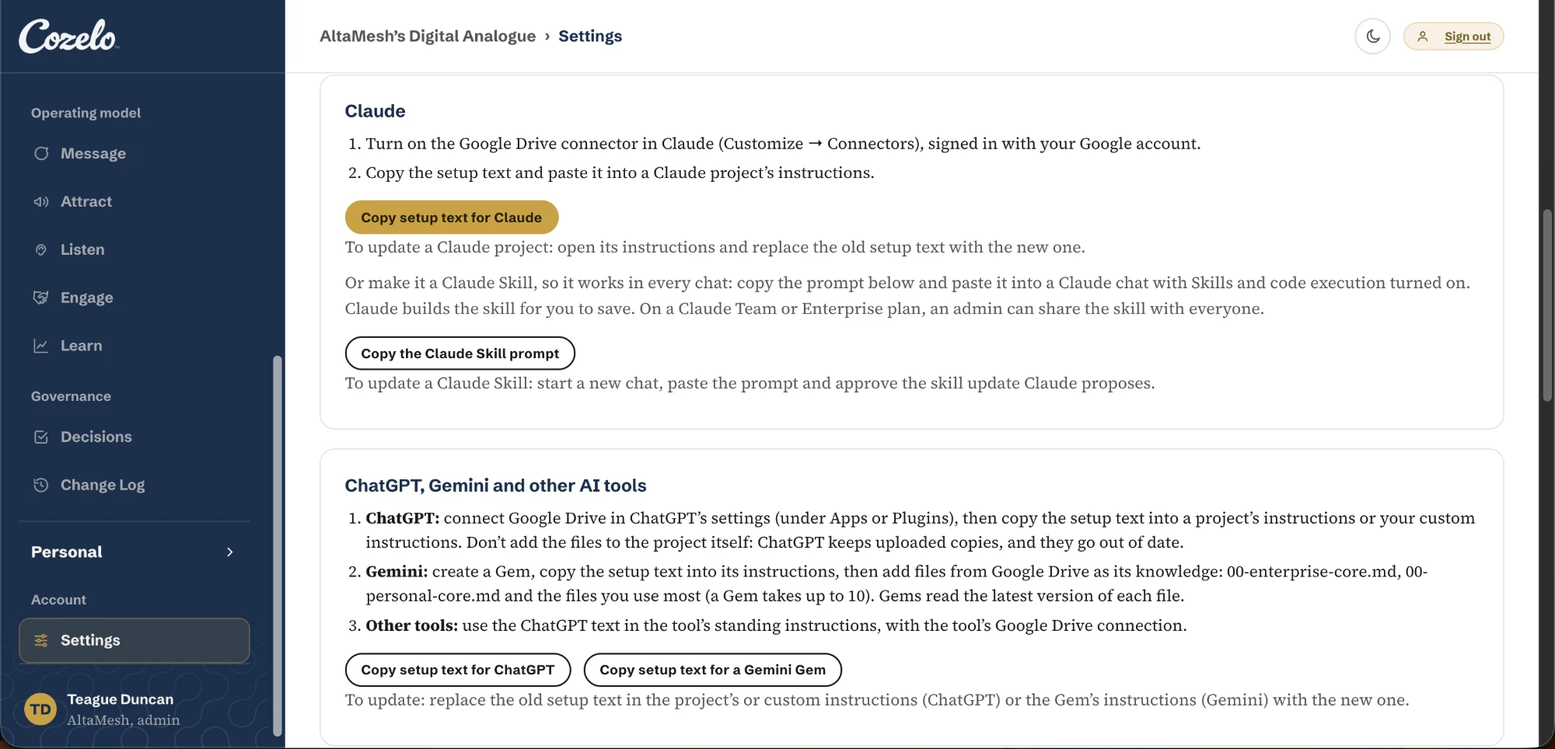
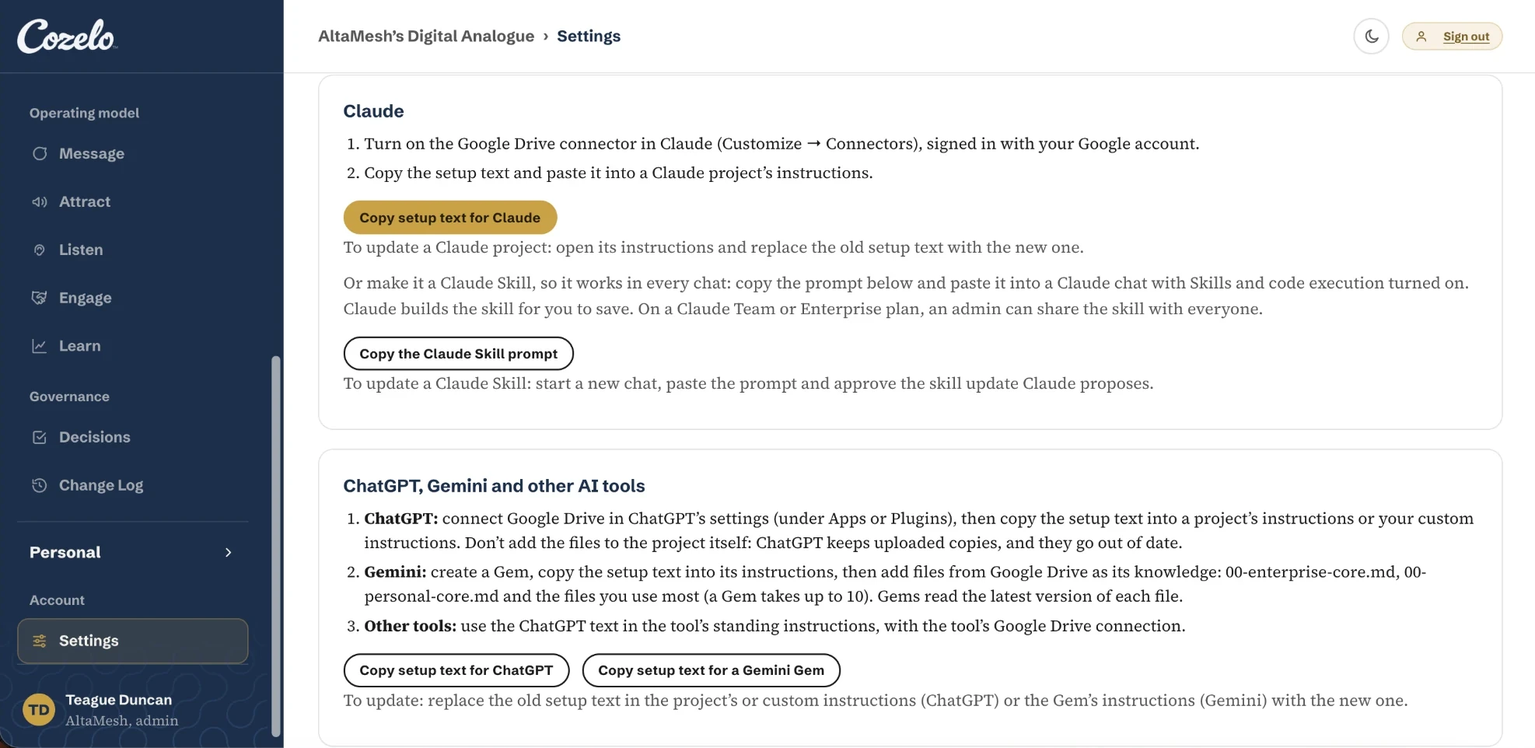
Digital Analogue: larger screenshots, brain motif, nav order
- Screenshots cropped of the app window's dark right and bottom edges (now 1974x962) and
  shown at the full content width, heading and copy above each; each links to its full-size file.
- The Orchestrator Instructions field draws a gold brain seen from the side.
- Digital Analogue now follows AI readiness in the rail, mobile menu and footer on every page.

diff --git a/digital-analogue/index.html b/digital-analogue/index.html
@@ -50,23 +50,29 @@
 .stack{display:flex; flex-direction:column; gap:.85rem; min-width:0}
 .txt{margin:0; font-family:var(--serif); font-size:1.05rem; line-height:1.55; color:var(--on-light-soft)}
 .band--dark .txt{color:var(--on-dark-soft)}
-.cards h3,.sec-pts h3,.steps h3{font-size:1.25rem; line-height:1.25}
+.feats h3,.sec-pts h3,.steps h3{font-size:1.25rem; line-height:1.25}
 
-/* App screenshots: full app windows at their own shape, trimmed only of the window's dark right edge. */
-.shot{display:block; width:100%; height:auto; aspect-ratio:1975/964; object-fit:cover; object-position:left top;
-  border:1px solid var(--rule-light); border-radius:var(--btn-radius); background:var(--white)}
+/* App screenshots: full app windows, shown at the full content width so the screen is readable.
+   Each links to its full-size file for a closer look on small screens. */
+.shot{display:block; width:100%; height:auto; border:1px solid var(--rule-light); border-radius:var(--btn-radius); background:var(--white)}
+.shot-link{display:block; border-radius:var(--btn-radius); cursor:zoom-in}
+.shot-link:focus-visible{outline:2px solid var(--navy); outline-offset:3px}
+/* A feature with a screenshot: heading and copy side by side, then the screenshot across the full width. */
+.feat{display:flex; flex-direction:column; gap:clamp(1.25rem,2.5vw,1.75rem)}
+.feat__head{display:grid; grid-template-columns:minmax(0,5fr) minmax(0,7fr); gap:.85rem clamp(2rem,5vw,4.5rem); align-items:baseline}
+.feat__head .txt{max-width:40rem}
 
-/* What's in it: three image-and-copy splits, alternating sides */
+/* What's in it: the context base and the app as screenshot features, the Orchestrator Instructions as a split */
 .parts3{display:flex; flex-direction:column; gap:clamp(2.5rem,5vw,4rem); margin-top:clamp(2.5rem,5vw,3.5rem)}
-.split-l{display:grid; grid-template-columns:minmax(0,5fr) minmax(0,7fr); gap:clamp(2rem,5vw,4.5rem); align-items:center}
 .split-r{display:grid; grid-template-columns:minmax(0,7fr) minmax(0,5fr); gap:clamp(2rem,5vw,4.5rem); align-items:center}
-/* The Orchestrator Instructions: a field running in from the page's left edge and fading out toward the copy.
-   The gold shape is the small part of the context base a task needs. */
+/* The Orchestrator Instructions: a field running in from the page's left edge and fading out toward the copy,
+   with a gold brain at its center. */
 .jx-orch{--rail:var(--rail-w); --edge:calc(var(--gutter) + max(0px, (100vw - var(--rail) - 2 * var(--gutter) - var(--max)) / 2));
-  margin-left:calc(-1 * var(--edge)); width:calc(100% + var(--edge)); height:clamp(260px,27vw,380px);
-  -webkit-mask-image:linear-gradient(90deg, #000 72%, transparent); mask-image:linear-gradient(90deg, #000 72%, transparent)}
+  margin-left:calc(-1 * var(--edge)); width:calc(100% + var(--edge)); height:clamp(320px,27vw,380px);
+  -webkit-mask-image:linear-gradient(90deg, #000 82%, transparent); mask-image:linear-gradient(90deg, #000 82%, transparent)}
+@media(max-width:900px){.jx-orch{height:280px}}
 @media(max-width:1080px){.jx-orch{--rail:0px}}
-.split-l h3,.split-r h3{font-size:clamp(1.5rem,2.4vw,1.875rem); line-height:1.15}
+.parts3 h3{font-size:clamp(1.5rem,2.4vw,1.875rem); line-height:1.15}
 
 /* How it's organized: the wheel beside the text and the five parts, then the markdown point */
 .model{display:grid; grid-template-columns:minmax(0,500px) minmax(0,1fr); gap:clamp(2.5rem,6vw,5rem); align-items:start}
@@ -85,14 +91,14 @@
 .num{font-family:var(--sans); font-weight:800; font-size:1.75rem; line-height:1; color:var(--gold)}
 .steps__foot{margin-top:clamp(2rem,4vw,3rem); max-width:40rem}
 
-/* The app: four cards, each with its screenshot */
-.cards{display:grid; grid-template-columns:repeat(2,minmax(0,1fr)); gap:clamp(1.5rem,3vw,2.5rem) clamp(1.5rem,4vw,3.5rem); margin-top:clamp(2.5rem,5vw,3.5rem)}
+/* The app: four features, each with its screenshot */
+.feats{display:flex; flex-direction:column; gap:clamp(3rem,6vw,4.5rem); margin-top:clamp(2.5rem,5vw,3.5rem)}
 
 /* Security: four points stacked, each running the full body width, no rules between them */
 .sec-pts{display:flex; flex-direction:column; gap:clamp(1.75rem,3vw,2.25rem); margin-top:clamp(2rem,4vw,3rem)}
 
 @media(max-width:1000px){.steps{grid-template-columns:1fr} .jx-steps{display:none}}
-@media(max-width:900px){.cards,.split-l,.split-r,.model{grid-template-columns:minmax(0,1fr)} .split-r .shot{order:2} .model__wheel{max-width:28rem}}
+@media(max-width:900px){.feat__head,.split-r,.model{grid-template-columns:minmax(0,1fr)} .model__wheel{max-width:28rem}}
 </style></head>
 <body>
 
@@ -110,8 +116,8 @@
 </div>
 <nav class="mmenu" id="mmenu" aria-label="Primary">
   <a class="mlink" href="/">Home</a>
-  <a class="mlink current" href="/digital-analogue/">Digital Analogue</a>
   <a class="mlink" href="/ai-readiness/">AI readiness</a>
+  <a class="mlink current" href="/digital-analogue/">Digital Analogue</a>
   <a class="mlink" href="/how-we-work/">How we work</a>
   <a class="mlink" href="/who-we-are/">Who we are</a>
   <div class="mmenu__foot">
@@ -126,6 +132,7 @@
     </a>
     <ul class="rail__pages">
       <li><a class="rail__pg" href="/">Home</a></li>
+      <li><a class="rail__pg" href="/ai-readiness/">AI readiness</a></li>
       <li><a class="rail__pg current" href="/digital-analogue/" aria-current="page">Digital Analogue</a>
         <ul class="rail__toc">
           <li><a href="#whats-in-it">What&rsquo;s in it</a></li>
@@ -135,7 +142,6 @@
           <li><a href="#security">Security</a></li>
         </ul>
       </li>
-      <li><a class="rail__pg" href="/ai-readiness/">AI readiness</a></li>
       <li><a class="rail__pg" href="/how-we-work/">How we work</a></li>
       <li><a class="rail__pg" href="/who-we-are/">Who we are</a></li>
     </ul>
@@ -161,28 +167,30 @@
       </div>
     </div>
     <div class="parts3">
-      <div class="split-l">
-        <div class="stack">
+      <div class="feat">
+        <div class="feat__head">
           <h3>The context base</h3>
           <p class="txt">Everything AI needs to know about your <span class="nb">go-to-market</span>, organized by the operating model and kept in your own Google Drive or SharePoint. Each part holds what an AI tool needs to do that part&rsquo;s work.</p>
         </div>
-        <img class="shot" src="/assets/da/enterprise-hub.webp" width="2000" height="964" loading="lazy" decoding="async" alt="The Enterprise Hub in the Digital Analogue app for a demo company, AltaMesh: the sidebar lists the Foundation and operating-model sections, and cards for Firm Facts, Market, People &amp; Process, Technology &amp; Data and Visual identity show how many entries each has documented.">
+        <a class="shot-link" href="/assets/da/enterprise-hub.webp"><img class="shot" src="/assets/da/enterprise-hub.webp" width="1974" height="962" loading="lazy" decoding="async" alt="The Enterprise Hub in the Digital Analogue app for a demo company, AltaMesh: the sidebar lists the Foundation and operating-model sections, and cards for Firm Facts, Market, People &amp; Process, Technology &amp; Data and Visual identity show how many entries each has documented."></a>
       </div>
       <div class="split-r">
+        <!-- A brain seen from the side, front to the left: dots are the tile corners the gold line closes around.
+             Corners left out inside it draw the folds. -->
         <div class="jx jx-orch" data-motif="junctions" data-surface="white" data-seed="31"
-             data-opts='{"tile":30,"shapes":[{"type":"blob","x":7,"y":7,"n":18,"seed":21},{"type":"blob","x":11,"y":4,"n":10,"seed":3},{"type":"dot","x":3,"y":3}]}'
-             data-opts-narrow='{"tile":24}'></div>
+             data-opts='{"tile":16,"thick":0.17,"shapes":[{"type":"dot","x":[0.5,-1],"y":[0.5,-9]},{"type":"dot","x":[0.5,1],"y":[0.5,-9]},{"type":"dot","x":[0.5,3],"y":[0.5,-9]},{"type":"dot","x":[0.5,-6],"y":[0.5,-8]},{"type":"dot","x":[0.5,-4],"y":[0.5,-8]},{"type":"dot","x":[0.5,-2],"y":[0.5,-8]},{"type":"dot","x":[0.5,0],"y":[0.5,-8]},{"type":"dot","x":[0.5,2],"y":[0.5,-8]},{"type":"dot","x":[0.5,4],"y":[0.5,-8]},{"type":"dot","x":[0.5,6],"y":[0.5,-8]},{"type":"dot","x":[0.5,-7],"y":[0.5,-7]},{"type":"dot","x":[0.5,-5],"y":[0.5,-7]},{"type":"dot","x":[0.5,-3],"y":[0.5,-7]},{"type":"dot","x":[0.5,-1],"y":[0.5,-7]},{"type":"dot","x":[0.5,3],"y":[0.5,-7]},{"type":"dot","x":[0.5,5],"y":[0.5,-7]},{"type":"dot","x":[0.5,7],"y":[0.5,-7]},{"type":"dot","x":[0.5,9],"y":[0.5,-7]},{"type":"dot","x":[0.5,-10],"y":[0.5,-6]},{"type":"dot","x":[0.5,-8],"y":[0.5,-6]},{"type":"dot","x":[0.5,-6],"y":[0.5,-6]},{"type":"dot","x":[0.5,-4],"y":[0.5,-6]},{"type":"dot","x":[0.5,-2],"y":[0.5,-6]},{"type":"dot","x":[0.5,0],"y":[0.5,-6]},{"type":"dot","x":[0.5,2],"y":[0.5,-6]},{"type":"dot","x":[0.5,4],"y":[0.5,-6]},{"type":"dot","x":[0.5,8],"y":[0.5,-6]},{"type":"dot","x":[0.5,10],"y":[0.5,-6]},{"type":"dot","x":[0.5,-11],"y":[0.5,-5]},{"type":"dot","x":[0.5,-5],"y":[0.5,-5]},{"type":"dot","x":[0.5,-3],"y":[0.5,-5]},{"type":"dot","x":[0.5,-1],"y":[0.5,-5]},{"type":"dot","x":[0.5,1],"y":[0.5,-5]},{"type":"dot","x":[0.5,3],"y":[0.5,-5]},{"type":"dot","x":[0.5,5],"y":[0.5,-5]},{"type":"dot","x":[0.5,9],"y":[0.5,-5]},{"type":"dot","x":[0.5,11],"y":[0.5,-5]},{"type":"dot","x":[0.5,-10],"y":[0.5,-4]},{"type":"dot","x":[0.5,-8],"y":[0.5,-4]},{"type":"dot","x":[0.5,-4],"y":[0.5,-4]},{"type":"dot","x":[0.5,-2],"y":[0.5,-4]},{"type":"dot","x":[0.5,2],"y":[0.5,-4]},{"type":"dot","x":[0.5,4],"y":[0.5,-4]},{"type":"dot","x":[0.5,6],"y":[0.5,-4]},{"type":"dot","x":[0.5,8],"y":[0.5,-4]},{"type":"dot","x":[0.5,10],"y":[0.5,-4]},{"type":"dot","x":[0.5,12],"y":[0.5,-4]},{"type":"dot","x":[0.5,-11],"y":[0.5,-3]},{"type":"dot","x":[0.5,-9],"y":[0.5,-3]},{"type":"dot","x":[0.5,-7],"y":[0.5,-3]},{"type":"dot","x":[0.5,-5],"y":[0.5,-3]},{"type":"dot","x":[0.5,-3],"y":[0.5,-3]},{"type":"dot","x":[0.5,-1],"y":[0.5,-3]},{"type":"dot","x":[0.5,1],"y":[0.5,-3]},{"type":"dot","x":[0.5,3],"y":[0.5,-3]},{"type":"dot","x":[0.5,5],"y":[0.5,-3]},{"type":"dot","x":[0.5,7],"y":[0.5,-3]},{"type":"dot","x":[0.5,9],"y":[0.5,-3]},{"type":"dot","x":[0.5,11],"y":[0.5,-3]},{"type":"dot","x":[0.5,13],"y":[0.5,-3]},{"type":"dot","x":[0.5,-12],"y":[0.5,-2]},{"type":"dot","x":[0.5,-10],"y":[0.5,-2]},{"type":"dot","x":[0.5,-8],"y":[0.5,-2]},{"type":"dot","x":[0.5,-6],"y":[0.5,-2]},{"type":"dot","x":[0.5,-4],"y":[0.5,-2]},{"type":"dot","x":[0.5,-2],"y":[0.5,-2]},{"type":"dot","x":[0.5,0],"y":[0.5,-2]},{"type":"dot","x":[0.5,2],"y":[0.5,-2]},{"type":"dot","x":[0.5,4],"y":[0.5,-2]},{"type":"dot","x":[0.5,6],"y":[0.5,-2]},{"type":"dot","x":[0.5,8],"y":[0.5,-2]},{"type":"dot","x":[0.5,10],"y":[0.5,-2]},{"type":"dot","x":[0.5,12],"y":[0.5,-2]},{"type":"dot","x":[0.5,-11],"y":[0.5,-1]},{"type":"dot","x":[0.5,-9],"y":[0.5,-1]},{"type":"dot","x":[0.5,-7],"y":[0.5,-1]},{"type":"dot","x":[0.5,-5],"y":[0.5,-1]},{"type":"dot","x":[0.5,-3],"y":[0.5,-1]},{"type":"dot","x":[0.5,-1],"y":[0.5,-1]},{"type":"dot","x":[0.5,3],"y":[0.5,-1]},{"type":"dot","x":[0.5,5],"y":[0.5,-1]},{"type":"dot","x":[0.5,7],"y":[0.5,-1]},{"type":"dot","x":[0.5,9],"y":[0.5,-1]},{"type":"dot","x":[0.5,11],"y":[0.5,-1]},{"type":"dot","x":[0.5,13],"y":[0.5,-1]},{"type":"dot","x":[0.5,-12],"y":[0.5,0]},{"type":"dot","x":[0.5,-10],"y":[0.5,0]},{"type":"dot","x":[0.5,-8],"y":[0.5,0]},{"type":"dot","x":[0.5,2],"y":[0.5,0]},{"type":"dot","x":[0.5,4],"y":[0.5,0]},{"type":"dot","x":[0.5,6],"y":[0.5,0]},{"type":"dot","x":[0.5,8],"y":[0.5,0]},{"type":"dot","x":[0.5,10],"y":[0.5,0]},{"type":"dot","x":[0.5,12],"y":[0.5,0]},{"type":"dot","x":[0.5,-11],"y":[0.5,1]},{"type":"dot","x":[0.5,-9],"y":[0.5,1]},{"type":"dot","x":[0.5,-5],"y":[0.5,1]},{"type":"dot","x":[0.5,-3],"y":[0.5,1]},{"type":"dot","x":[0.5,-1],"y":[0.5,1]},{"type":"dot","x":[0.5,1],"y":[0.5,1]},{"type":"dot","x":[0.5,3],"y":[0.5,1]},{"type":"dot","x":[0.5,5],"y":[0.5,1]},{"type":"dot","x":[0.5,7],"y":[0.5,1]},{"type":"dot","x":[0.5,9],"y":[0.5,1]},{"type":"dot","x":[0.5,11],"y":[0.5,1]},{"type":"dot","x":[0.5,-10],"y":[0.5,2]},{"type":"dot","x":[0.5,-8],"y":[0.5,2]},{"type":"dot","x":[0.5,-6],"y":[0.5,2]},{"type":"dot","x":[0.5,-4],"y":[0.5,2]},{"type":"dot","x":[0.5,-2],"y":[0.5,2]},{"type":"dot","x":[0.5,0],"y":[0.5,2]},{"type":"dot","x":[0.5,2],"y":[0.5,2]},{"type":"dot","x":[0.5,4],"y":[0.5,2]},{"type":"dot","x":[0.5,6],"y":[0.5,2]},{"type":"dot","x":[0.5,8],"y":[0.5,2]},{"type":"dot","x":[0.5,-9],"y":[0.5,3]},{"type":"dot","x":[0.5,-7],"y":[0.5,3]},{"type":"dot","x":[0.5,-5],"y":[0.5,3]},{"type":"dot","x":[0.5,3],"y":[0.5,3]},{"type":"dot","x":[0.5,5],"y":[0.5,3]},{"type":"dot","x":[0.5,9],"y":[0.5,3]},{"type":"dot","x":[0.5,11],"y":[0.5,3]},{"type":"dot","x":[0.5,13],"y":[0.5,3]},{"type":"dot","x":[0.5,-8],"y":[0.5,4]},{"type":"dot","x":[0.5,-6],"y":[0.5,4]},{"type":"dot","x":[0.5,-4],"y":[0.5,4]},{"type":"dot","x":[0.5,-2],"y":[0.5,4]},{"type":"dot","x":[0.5,0],"y":[0.5,4]},{"type":"dot","x":[0.5,2],"y":[0.5,4]},{"type":"dot","x":[0.5,4],"y":[0.5,4]},{"type":"dot","x":[0.5,6],"y":[0.5,4]},{"type":"dot","x":[0.5,8],"y":[0.5,4]},{"type":"dot","x":[0.5,10],"y":[0.5,4]},{"type":"dot","x":[0.5,12],"y":[0.5,4]},{"type":"dot","x":[0.5,-5],"y":[0.5,5]},{"type":"dot","x":[0.5,-3],"y":[0.5,5]},{"type":"dot","x":[0.5,-1],"y":[0.5,5]},{"type":"dot","x":[0.5,1],"y":[0.5,5]},{"type":"dot","x":[0.5,3],"y":[0.5,5]},{"type":"dot","x":[0.5,5],"y":[0.5,5]},{"type":"dot","x":[0.5,7],"y":[0.5,5]},{"type":"dot","x":[0.5,9],"y":[0.5,5]},{"type":"dot","x":[0.5,11],"y":[0.5,5]},{"type":"dot","x":[0.5,13],"y":[0.5,5]},{"type":"dot","x":[0.5,6],"y":[0.5,6]},{"type":"dot","x":[0.5,8],"y":[0.5,6]},{"type":"dot","x":[0.5,10],"y":[0.5,6]},{"type":"dot","x":[0.5,12],"y":[0.5,6]},{"type":"dot","x":[0.5,7],"y":[0.5,7]},{"type":"dot","x":[0.5,6],"y":[0.5,8]},{"type":"dot","x":[0.5,8],"y":[0.5,8]},{"type":"dot","x":[0.5,7],"y":[0.5,9]}]}'
+             data-opts-narrow='{"tile":11}'></div>
         <div class="stack">
           <h3>The Orchestrator Instructions</h3>
           <p class="txt">Cozelo&rsquo;s proprietary methodology for how an AI tool should use your context to carry out a task.</p>
         </div>
       </div>
-      <div class="split-l">
-        <div class="stack">
+      <div class="feat">
+        <div class="feat__head">
           <h3>The app</h3>
           <p class="txt">Where your team reads and updates the context base, with data governance built in, without opening a file or learning markdown.</p>
         </div>
-        <img class="shot" src="/assets/da/home.webp" width="2000" height="964" loading="lazy" decoding="async" alt="The app&rsquo;s Home screen: Enterprise context and Personal context cards with buttons to open each hub, a Start an AI session panel with buttons to copy setup text for Claude or ChatGPT, and the start of the Recent changes logs.">
+        <a class="shot-link" href="/assets/da/home.webp"><img class="shot" src="/assets/da/home.webp" width="1974" height="962" loading="lazy" decoding="async" alt="The app&rsquo;s Home screen: Enterprise context and Personal context cards with buttons to open each hub, a Start an AI session panel with buttons to copy setup text for Claude or ChatGPT, and the start of the Recent changes logs."></a>
       </div>
     </div>
   </div>
@@ -266,26 +274,34 @@
         <p>The Digital Analogue&trade; app makes keeping the context base current part of the work, done by the people who know the business best.</p>
       </div>
     </div>
-    <div class="cards">
-      <div class="stack">
-        <img class="shot" src="/assets/da/edit-entry.webp" width="2000" height="964" loading="lazy" decoding="async" alt="Editing the Firmographic fence entry: a table of criteria and settings, each row with a Status dropdown open to Confirmed, Draft or Aspirational, and As of, Source and Owner fields above a Save and write to Context Base button.">
-        <h3>The people closest to the work keep it right</h3>
-        <p class="txt">Anyone you invite can update an entry in a simple form. The app writes the markdown, so nobody touches a file.</p>
+    <div class="feats">
+      <div class="feat">
+        <div class="feat__head">
+          <h3>The people closest to the work keep it right</h3>
+          <p class="txt">Anyone you invite can update an entry in a simple form. The app writes the markdown, so nobody touches a file.</p>
+        </div>
+        <a class="shot-link" href="/assets/da/edit-entry.webp"><img class="shot" src="/assets/da/edit-entry.webp" width="1974" height="962" loading="lazy" decoding="async" alt="Editing the Firmographic fence entry: a table of criteria and settings, each row with a Status dropdown open to Confirmed, Draft or Aspirational, and As of, Source and Owner fields above a Save and write to Context Base button."></a>
       </div>
-      <div class="stack">
-        <img class="shot" src="/assets/da/change-log.webp" width="2000" height="964" loading="lazy" decoding="async" alt="The Change Log: filters by area, then a table of edits showing when, who, which area and field, and what changed, with removed text struck through.">
-        <h3>You can trust what your AI reads</h3>
-        <p class="txt">Every change is logged with who made it and when, and admins decide who can edit what.</p>
+      <div class="feat">
+        <div class="feat__head">
+          <h3>You can trust what your AI reads</h3>
+          <p class="txt">Every change is logged with who made it and when, and admins decide who can edit what.</p>
+        </div>
+        <a class="shot-link" href="/assets/da/change-log.webp"><img class="shot" src="/assets/da/change-log.webp" width="1974" height="962" loading="lazy" decoding="async" alt="The Change Log: filters by area, then a table of edits showing when, who, which area and field, and what changed, with removed text struck through."></a>
       </div>
-      <div class="stack">
-        <img class="shot" src="/assets/da/connect-your-ai.webp" width="2000" height="964" loading="lazy" decoding="async" alt="Settings, connecting an AI tool: steps and copy buttons for Claude setup text and a Claude Skill prompt, then for ChatGPT and Gemini setup text.">
-        <h3>One setup for the whole team</h3>
-        <p class="txt">One block of setup text connects each person&rsquo;s AI tool, so everyone starts every task from the same context base.</p>
+      <div class="feat">
+        <div class="feat__head">
+          <h3>One setup for the whole team</h3>
+          <p class="txt">One block of setup text connects each person&rsquo;s AI tool, so everyone starts every task from the same context base.</p>
+        </div>
+        <a class="shot-link" href="/assets/da/connect-your-ai.webp"><img class="shot" src="/assets/da/connect-your-ai.webp" width="1974" height="962" loading="lazy" decoding="async" alt="Settings, connecting an AI tool: steps and copy buttons for Claude setup text and a Claude Skill prompt, then for ChatGPT and Gemini setup text."></a>
       </div>
-      <div class="stack">
-        <img class="shot" src="/assets/da/personal-hub.webp" width="2000" height="964" loading="lazy" decoding="async" alt="The Personal Hub: a note that the personal folder is private, then cards for Focus, Working style, Relationships, AI instructions, Notes and My change log, each showing how much is documented.">
-        <h3>Personal context, kept private</h3>
-        <p class="txt">Each person adds their own priorities, working style and standing instructions, visible only to them and always inside the organization&rsquo;s rules.</p>
+      <div class="feat">
+        <div class="feat__head">
+          <h3>Personal context, kept private</h3>
+          <p class="txt">Each person adds their own priorities, working style and standing instructions, visible only to them and always inside the organization&rsquo;s rules.</p>
+        </div>
+        <a class="shot-link" href="/assets/da/personal-hub.webp"><img class="shot" src="/assets/da/personal-hub.webp" width="1974" height="962" loading="lazy" decoding="async" alt="The Personal Hub: a note that the personal folder is private, then cards for Focus, Working style, Relationships, AI instructions, Notes and My change log, each showing how much is documented."></a>
       </div>
     </div>
   </div>
@@ -353,8 +369,8 @@
     </div>
     <ul>
       <li><a href="/">Home</a></li>
-      <li><a href="/digital-analogue/">Digital Analogue</a></li>
       <li><a href="/ai-readiness/">AI readiness</a></li>
+      <li><a href="/digital-analogue/">Digital Analogue</a></li>
       <li><a href="/how-we-work/">How we work</a></li>
       <li><a href="/who-we-are/">Who we are</a></li>
     </ul>

diff --git a/404.html b/404.html
@@ -48,8 +48,8 @@
 </div>
 <nav class="mmenu" id="mmenu" aria-label="Primary">
   <a class="mlink current" href="/">Home</a>
-  <a class="mlink" href="/digital-analogue/">Digital Analogue</a>
   <a class="mlink" href="/ai-readiness/">AI readiness</a>
+  <a class="mlink" href="/digital-analogue/">Digital Analogue</a>
   <a class="mlink" href="/how-we-work/">How we work</a>
   <a class="mlink" href="/who-we-are/">Who we are</a>
   <div class="mmenu__foot">
@@ -64,8 +64,8 @@
     </a>
     <ul class="rail__pages">
       <li><a class="rail__pg" href="/">Home</a></li>
-      <li><a class="rail__pg" href="/digital-analogue/">Digital Analogue</a></li>
       <li><a class="rail__pg" href="/ai-readiness/">AI readiness</a></li>
+      <li><a class="rail__pg" href="/digital-analogue/">Digital Analogue</a></li>
       <li><a class="rail__pg" href="/how-we-work/">How we work</a></li>
       <li><a class="rail__pg" href="/who-we-are/">Who we are</a></li>
     </ul>
@@ -81,8 +81,8 @@
     <p class="lede">It may have moved, or the link may be wrong. Everything the site has is one click away.</p>
     <ul>
       <li><a href="/">Home</a></li>
-      <li><a href="/digital-analogue/">Digital Analogue</a></li>
       <li><a href="/ai-readiness/">AI readiness</a></li>
+      <li><a href="/digital-analogue/">Digital Analogue</a></li>
       <li><a href="/how-we-work/">How we work</a></li>
       <li><a href="/who-we-are/">Who we are</a></li>
     </ul>
@@ -100,8 +100,8 @@
     </div>
     <ul>
       <li><a href="/">Home</a></li>
-      <li><a href="/digital-analogue/">Digital Analogue</a></li>
       <li><a href="/ai-readiness/">AI readiness</a></li>
+      <li><a href="/digital-analogue/">Digital Analogue</a></li>
       <li><a href="/how-we-work/">How we work</a></li>
       <li><a href="/who-we-are/">Who we are</a></li>
     </ul>

diff --git a/ai-readiness/index.html b/ai-readiness/index.html
@@ -114,8 +114,8 @@
 </div>
 <nav class="mmenu" id="mmenu" aria-label="Primary">
   <a class="mlink" href="/">Home</a>
-  <a class="mlink" href="/digital-analogue/">Digital Analogue</a>
   <a class="mlink current" href="/ai-readiness/">AI readiness</a>
+  <a class="mlink" href="/digital-analogue/">Digital Analogue</a>
   <a class="mlink" href="/how-we-work/">How we work</a>
   <a class="mlink" href="/who-we-are/">Who we are</a>
   <div class="mmenu__foot">
@@ -130,7 +130,6 @@
     </a>
     <ul class="rail__pages">
       <li><a class="rail__pg" href="/">Home</a></li>
-      <li><a class="rail__pg" href="/digital-analogue/">Digital Analogue</a></li>
       <li><a class="rail__pg current" href="/ai-readiness/" aria-current="page">AI readiness</a>
         <ul class="rail__toc">
           <li><a href="#elements">The three keys</a></li>
@@ -139,6 +138,7 @@
           <li><a href="#question">The question</a></li>
         </ul>
       </li>
+      <li><a class="rail__pg" href="/digital-analogue/">Digital Analogue</a></li>
       <li><a class="rail__pg" href="/how-we-work/">How we work</a></li>
       <li><a class="rail__pg" href="/who-we-are/">Who we are</a></li>
     </ul>
@@ -323,8 +323,8 @@
     </div>
     <ul>
       <li><a href="/">Home</a></li>
-      <li><a href="/digital-analogue/">Digital Analogue</a></li>
       <li><a href="/ai-readiness/">AI readiness</a></li>
+      <li><a href="/digital-analogue/">Digital Analogue</a></li>
       <li><a href="/how-we-work/">How we work</a></li>
       <li><a href="/who-we-are/">Who we are</a></li>
     </ul>

diff --git a/how-we-work/index.html b/how-we-work/index.html
@@ -176,8 +176,8 @@
 </div>
 <nav class="mmenu" id="mmenu" aria-label="Primary">
   <a class="mlink" href="/">Home</a>
-  <a class="mlink" href="/digital-analogue/">Digital Analogue</a>
   <a class="mlink" href="/ai-readiness/">AI readiness</a>
+  <a class="mlink" href="/digital-analogue/">Digital Analogue</a>
   <a class="mlink current" href="/how-we-work/">How we work</a>
   <a class="mlink" href="/who-we-are/">Who we are</a>
   <div class="mmenu__foot">
@@ -192,8 +192,8 @@
     </a>
     <ul class="rail__pages">
       <li><a class="rail__pg" href="/">Home</a></li>
-      <li><a class="rail__pg" href="/digital-analogue/">Digital Analogue</a></li>
       <li><a class="rail__pg" href="/ai-readiness/">AI readiness</a></li>
+      <li><a class="rail__pg" href="/digital-analogue/">Digital Analogue</a></li>
       <li><a class="rail__pg current" href="/how-we-work/" aria-current="page">How we work</a>
         <ul class="rail__toc">
           <li><a href="#maturity"><span class="nb">Go-to-market</span> maturity</a></li>
@@ -390,8 +390,8 @@
     </div>
     <ul>
       <li><a href="/">Home</a></li>
-      <li><a href="/digital-analogue/">Digital Analogue</a></li>
       <li><a href="/ai-readiness/">AI readiness</a></li>
+      <li><a href="/digital-analogue/">Digital Analogue</a></li>
       <li><a href="/how-we-work/">How we work</a></li>
       <li><a href="/who-we-are/">Who we are</a></li>
     </ul>

diff --git a/who-we-are/index.html b/who-we-are/index.html
@@ -89,8 +89,8 @@
 </div>
 <nav class="mmenu" id="mmenu" aria-label="Primary">
   <a class="mlink" href="/">Home</a>
-  <a class="mlink" href="/digital-analogue/">Digital Analogue</a>
   <a class="mlink" href="/ai-readiness/">AI readiness</a>
+  <a class="mlink" href="/digital-analogue/">Digital Analogue</a>
   <a class="mlink" href="/how-we-work/">How we work</a>
   <a class="mlink current" href="/who-we-are/">Who we are</a>
   <div class="mmenu__foot">
@@ -105,8 +105,8 @@
     </a>
     <ul class="rail__pages">
       <li><a class="rail__pg" href="/">Home</a></li>
-      <li><a class="rail__pg" href="/digital-analogue/">Digital Analogue</a></li>
       <li><a class="rail__pg" href="/ai-readiness/">AI readiness</a></li>
+      <li><a class="rail__pg" href="/digital-analogue/">Digital Analogue</a></li>
       <li><a class="rail__pg" href="/how-we-work/">How we work</a></li>
       <li><a class="rail__pg current" href="/who-we-are/" aria-current="page">Who we are</a>
         <ul class="rail__toc">
@@ -247,8 +247,8 @@
     </div>
     <ul>
       <li><a href="/">Home</a></li>
-      <li><a href="/digital-analogue/">Digital Analogue</a></li>
       <li><a href="/ai-readiness/">AI readiness</a></li>
+      <li><a href="/digital-analogue/">Digital Analogue</a></li>
       <li><a href="/how-we-work/">How we work</a></li>
       <li><a href="/who-we-are/">Who we are</a></li>
     </ul>

diff --git a/thanks/index.html b/thanks/index.html
@@ -48,8 +48,8 @@
 </div>
 <nav class="mmenu" id="mmenu" aria-label="Primary">
   <a class="mlink current" href="/">Home</a>
-  <a class="mlink" href="/digital-analogue/">Digital Analogue</a>
   <a class="mlink" href="/ai-readiness/">AI readiness</a>
+  <a class="mlink" href="/digital-analogue/">Digital Analogue</a>
   <a class="mlink" href="/how-we-work/">How we work</a>
   <a class="mlink" href="/who-we-are/">Who we are</a>
   <div class="mmenu__foot">
@@ -64,8 +64,8 @@
     </a>
     <ul class="rail__pages">
       <li><a class="rail__pg" href="/">Home</a></li>
-      <li><a class="rail__pg" href="/digital-analogue/">Digital Analogue</a></li>
       <li><a class="rail__pg" href="/ai-readiness/">AI readiness</a></li>
+      <li><a class="rail__pg" href="/digital-analogue/">Digital Analogue</a></li>
       <li><a class="rail__pg" href="/how-we-work/">How we work</a></li>
       <li><a class="rail__pg" href="/who-we-are/">Who we are</a></li>
     </ul>
@@ -97,8 +97,8 @@
     </div>
     <ul>
       <li><a href="/">Home</a></li>
-      <li><a href="/digital-analogue/">Digital Analogue</a></li>
       <li><a href="/ai-readiness/">AI readiness</a></li>
+      <li><a href="/digital-analogue/">Digital Analogue</a></li>
       <li><a href="/how-we-work/">How we work</a></li>
       <li><a href="/who-we-are/">Who we are</a></li>
     </ul>

diff --git a/index.html b/index.html
@@ -136,8 +136,8 @@
 </div>
 <nav class="mmenu" id="mmenu" aria-label="Primary">
   <a class="mlink current" href="/">Home</a>
-  <a class="mlink" href="/digital-analogue/">Digital Analogue</a>
   <a class="mlink" href="/ai-readiness/">AI readiness</a>
+  <a class="mlink" href="/digital-analogue/">Digital Analogue</a>
   <a class="mlink" href="/how-we-work/">How we work</a>
   <a class="mlink" href="/who-we-are/">Who we are</a>
   <div class="mmenu__foot">
@@ -160,8 +160,8 @@
           <li><a href="#why-cozelo">Why Cozelo</a></li>
         </ul>
       </li>
-      <li><a class="rail__pg" href="/digital-analogue/">Digital Analogue</a></li>
       <li><a class="rail__pg" href="/ai-readiness/">AI readiness</a></li>
+      <li><a class="rail__pg" href="/digital-analogue/">Digital Analogue</a></li>
       <li><a class="rail__pg" href="/how-we-work/">How we work</a></li>
       <li><a class="rail__pg" href="/who-we-are/">Who we are</a></li>
     </ul>
@@ -323,8 +323,8 @@
     </div>
     <ul>
       <li><a href="/">Home</a></li>
-      <li><a href="/digital-analogue/">Digital Analogue</a></li>
       <li><a href="/ai-readiness/">AI readiness</a></li>
+      <li><a href="/digital-analogue/">Digital Analogue</a></li>
       <li><a href="/how-we-work/">How we work</a></li>
       <li><a href="/who-we-are/">Who we are</a></li>
     </ul>
